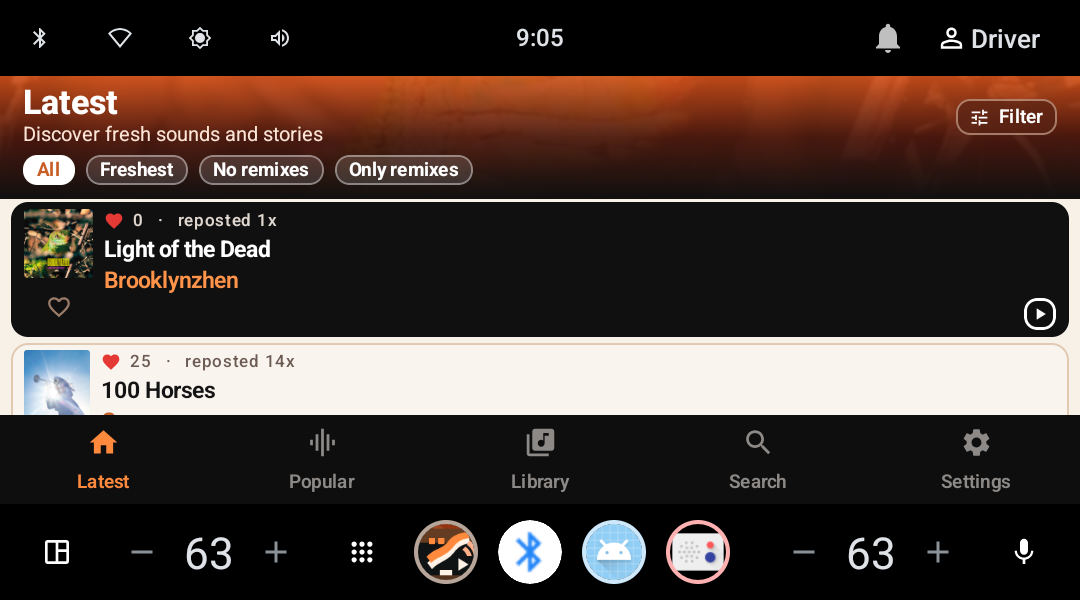
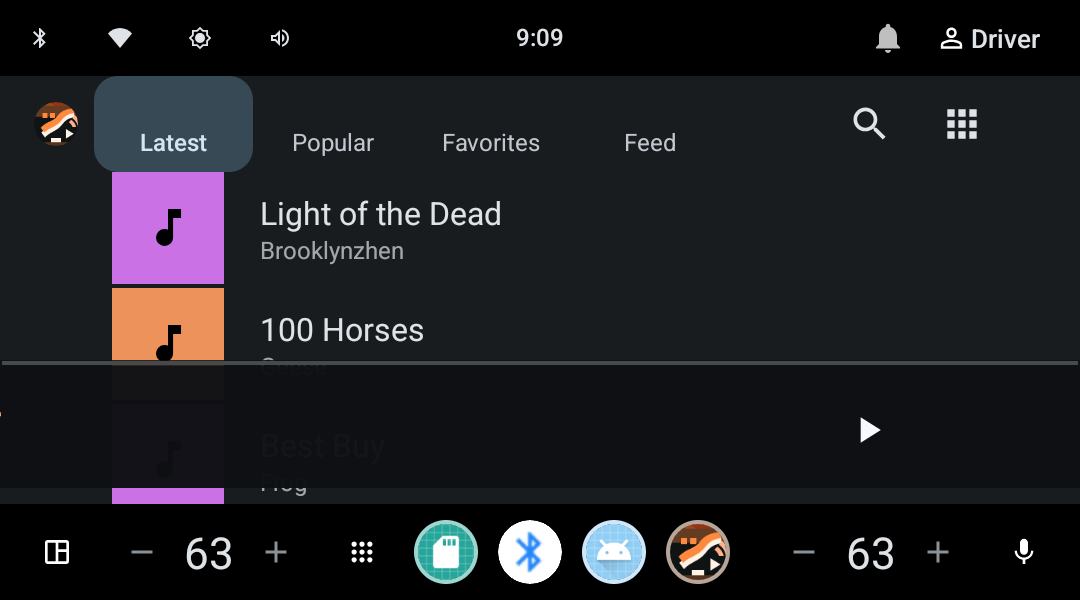
docs: replace car screenshots with the actual templated UI
The previous "AAOS" shots were of the Compose immersive UI that only
appears when you tap the app icon directly. In a real car the head
unit renders our MediaLibraryService through the AAOS Media Templates
(same surface Spotify uses), which has a very different look.

Captured by launching com.android.car.media with the
android.car.intent.action.MEDIA_TEMPLATE action against our service:
- car-latest.png        Latest browse, tab strip with our roots
- car-popular.png       Popular browse
- car-player.png        Templated Now Playing (artwork + transport)

car-settings.png is kept and relabelled — Compose Settings is what
actually renders when the app icon is launched on AAOS.

diff --git a/README.md b/README.md
@@ -19,11 +19,23 @@ Unofficial open-source Hype Machine client for Android phones and Android Auto /
 | --- | --- | --- | --- |
 | <img src="docs/screenshots/phone-latest.png" width="180" alt="Latest screen with mode chips and like-on-card hearts" /> | <img src="docs/screenshots/phone-player.png" width="180" alt="Full-screen player with breathing warm halo and ambient bottom haze" /> | <img src="docs/screenshots/phone-popular.png" width="180" alt="Popular screen with rank numbers" /> | <img src="docs/screenshots/phone-settings.png" width="180" alt="Offline settings with storage slider and version footer" /> |
 
-### Android Automotive (AAOS)
+### Android Automotive (AAOS) — system Media Templates
 
-| Latest | Player | Settings |
+What you actually see in a car: the head unit's media app renders our `MediaLibraryService` through the AAOS Media Templates — same surface Spotify, YouTube Music, etc. use. Browse roots come from our `MediaLibrarySession.Callback`; the playback chrome is system-rendered.
+
+| Latest | Popular | Now Playing |
 | --- | --- | --- |
-| <img src="docs/screenshots/car-latest.png" width="280" alt="Compact Latest screen tuned for landscape AAOS chrome" /> | <img src="docs/screenshots/car-player.png" width="280" alt="Car player with thumbnail next to title and snackbar anchored above the transport row" /> | <img src="docs/screenshots/car-settings.png" width="280" alt="Car settings using pill-based storage limits for safer touch targets" /> |
+| <img src="docs/screenshots/car-latest.png" width="280" alt="Templated Latest browse showing list rows for fresh tracks" /> | <img src="docs/screenshots/car-popular.png" width="280" alt="Templated Popular browse with chart-style track list" /> | <img src="docs/screenshots/car-player.png" width="280" alt="Templated Now Playing: artwork, title, artist, blog, transport controls" /> |
+
+> Captured by launching `com.android.car.media` with `-a android.car.intent.action.MEDIA_TEMPLATE` against `dev.josu.hypecar/dev.josu.hypecar.auto.service.HypeMediaLibraryService` on the AAOS_API_35 emulator.
+
+### AAOS — Compose immersive UI (when launched directly)
+
+When the user taps the app icon on AAOS (rather than going through the car's media app), they land in our Compose UI — a compact landscape variant of the phone layout.
+
+| Compose Settings |
+| --- |
+| <img src="docs/screenshots/car-settings.png" width="280" alt="Compose-rendered offline settings on AAOS using pill-based storage limits for safer touch targets" /> |
 
 ## Modules
 
